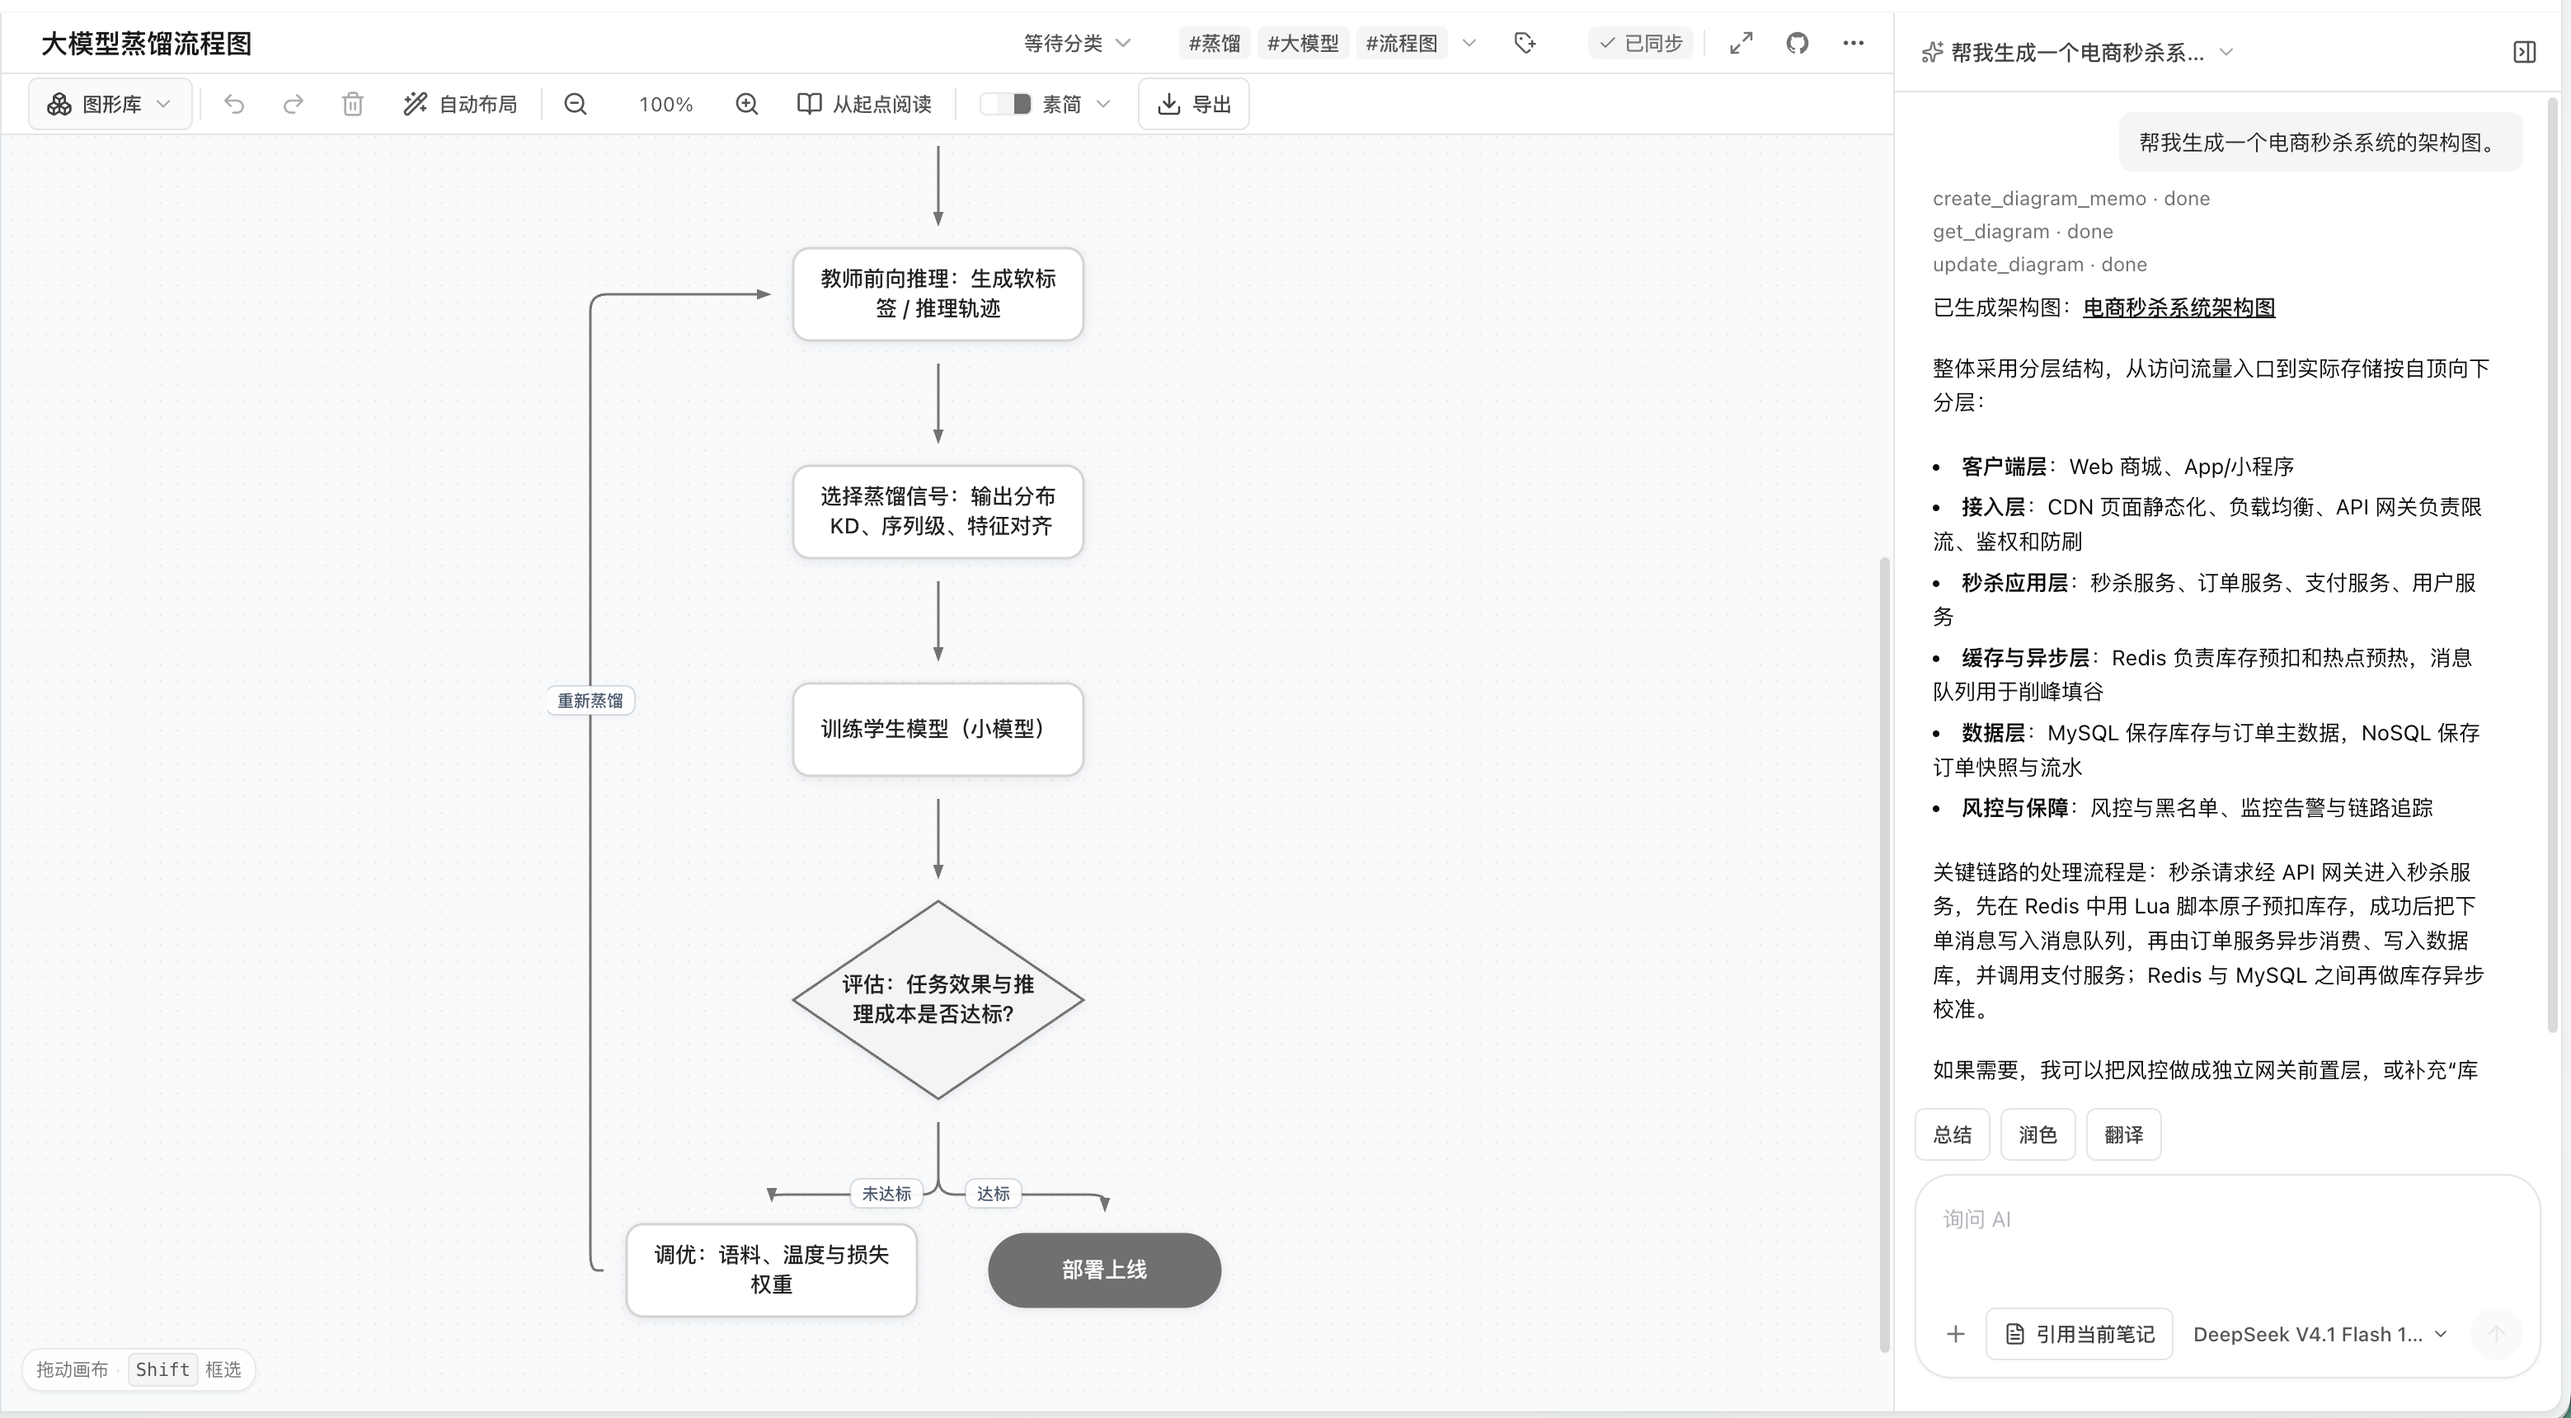
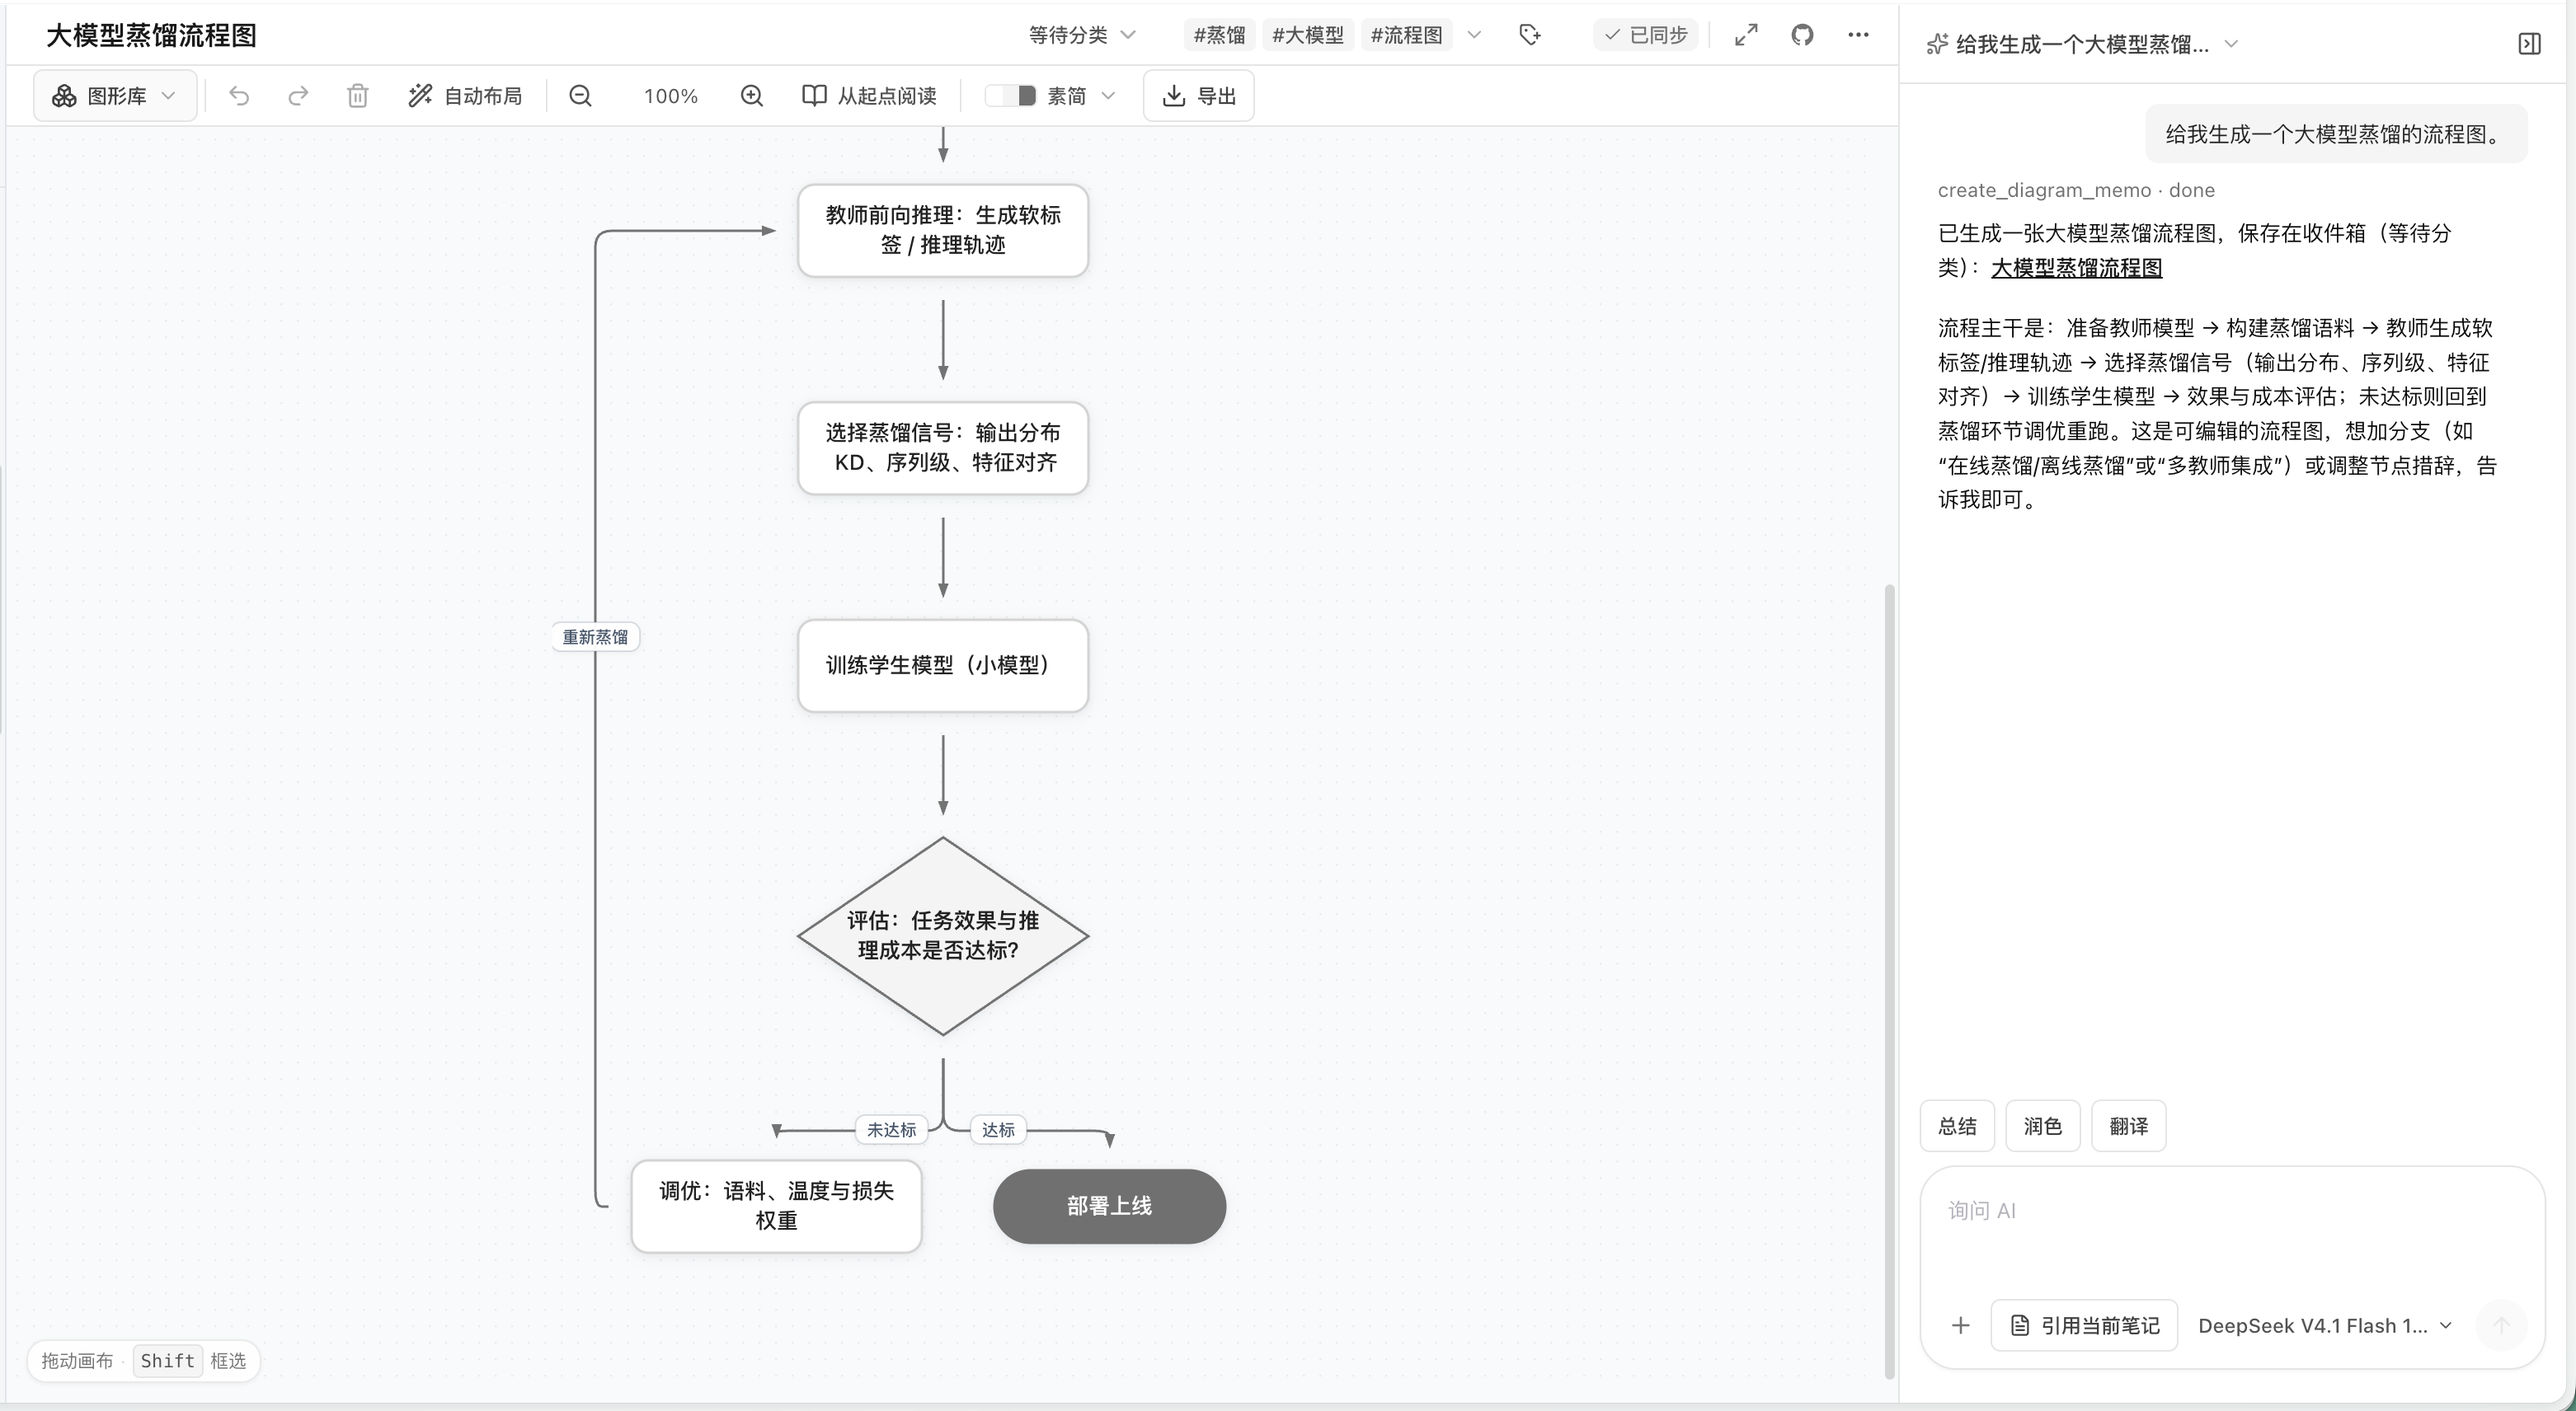
docs(best-practices): remove GitHub clipping showcase and update flowchart screenshot

diff --git a/docs/best-practices.md b/docs/best-practices.md
@@ -15,22 +15,21 @@ A practical guide to core workflows, key features, and real-world usage scenario
 - [6. X (Twitter) Post & Quote Clipping](#6-x-twitter-post--quote-clipping)
 - [7. Zhihu Answer & Column Article Clipping](#7-zhihu-answer--column-article-clipping)
 - [8. Reddit Discussion Post Clipping](#8-reddit-discussion-post-clipping)
-- [9. GitHub Repository Metadata Clipping](#9-github-repository-metadata-clipping)
 
 ### AI-Powered Structuring & Multi-Dimensional Data
-- [10. AI Conversational Generation of Mind Maps, Flowcharts & Architecture Diagrams](#10-ai-conversational-generation-of-mind-maps-flowcharts--architecture-diagrams)
-- [11. AI Generation of Structured Infographics (Timelines, Matrices & Quadrants)](#11-ai-generation-of-structured-infographics-timelines-matrices--quadrants)
-- [12. AI Conversational Database Table Generation](#12-ai-conversational-database-table-generation)
-- [13. Public Online Form Collection from Database Tables](#13-public-online-form-collection-from-database-tables)
-- [14. Connecting Local Agents via ACP for Note Interaction](#14-connecting-local-agents-via-acp-for-note-interaction)
+- [9. AI Conversational Generation of Mind Maps, Flowcharts & Architecture Diagrams](#9-ai-conversational-generation-of-mind-maps-flowcharts--architecture-diagrams)
+- [10. AI Generation of Structured Infographics (Timelines, Matrices & Quadrants)](#10-ai-generation-of-structured-infographics-timelines-matrices--quadrants)
+- [11. AI Conversational Database Table Generation](#11-ai-conversational-database-table-generation)
+- [12. Public Online Form Collection from Database Tables](#12-public-online-form-collection-from-database-tables)
+- [13. Connecting Local Agents via ACP for Note Interaction](#13-connecting-local-agents-via-acp-for-note-interaction)
 
 ### Visual Styling & Omnichannel Publishing
-- [15. Note Export to Long Image & Code Cards](#15-note-export-to-long-image--code-cards)
-- [16. Social Media Poster & Cover Design from Notes](#16-social-media-poster--cover-design-from-notes)
-- [17. Copying Notes to WeChat Official Account & Blogs](#17-copying-notes-to-wechat-official-account--blogs)
+- [14. Note Export to Long Image & Code Cards](#14-note-export-to-long-image--code-cards)
+- [15. Social Media Poster & Cover Design from Notes](#15-social-media-poster--cover-design-from-notes)
+- [16. Copying Notes to WeChat Official Account & Blogs](#16-copying-notes-to-wechat-official-account--blogs)
 
 ### Open Ecosystem & Extensibility
-- [18. Open Plugin API & Custom Plugin Development](#18-open-plugin-api--custom-plugin-development)
+- [17. Open Plugin API & Custom Plugin Development](#17-open-plugin-api--custom-plugin-development)
 
 ---
 
@@ -152,25 +151,9 @@ Right-click on the post title or body and select **"Save Selection to EdgeEver"*
 
 ---
 
-### 9. GitHub Repository Metadata Clipping
-
-Right-click anywhere on the GitHub repository page and select **"Save Repository Info to EdgeEver"**.
-
-- Extracts repository name (`Owner/Repo`), description, homepage, language, license, and topic tags into a structured technical card.
-
-| 1. Right-Click Save Repo Info |
-| :---: |
-| ![Right-click save GitHub repo info to EdgeEver](assets/best-practices/github-clip-menu.png) |
-
-| 2. Structured Repository Card |
-| :---: |
-| ![GitHub repo clipped into EdgeEver note card](assets/best-practices/github-clipped-note.png) |
-
----
-
 ## AI-Powered Structuring & Multi-Dimensional Data
 
-### 10. AI Conversational Generation of Mind Maps, Flowcharts & Architecture Diagrams
+### 9. AI Conversational Generation of Mind Maps, Flowcharts & Architecture Diagrams
 
 Prompt the AI Co-pilot (or connected local Agent) with natural language (e.g., "Generate a mind map / flowchart / architecture diagram about LLMs") to create editable diagrams directly in notes.
 
@@ -190,7 +173,7 @@ Prompt the AI Co-pilot (or connected local Agent) with natural language (e.g., "
 
 ---
 
-### 11. AI Generation of Structured Infographics (Timelines, Matrices & Quadrants)
+### 10. AI Generation of Structured Infographics (Timelines, Matrices & Quadrants)
 
 Use built-in infographic templates (timelines, comparison matrices, quadrants, and hierarchy charts) by prompting the AI Co-pilot with your topic.
 
@@ -207,7 +190,7 @@ Use built-in infographic templates (timelines, comparison matrices, quadrants, a
 
 ---
 
-### 12. AI Conversational Database Table Generation
+### 11. AI Conversational Database Table Generation
 
 Send a prompt to the AI Co-pilot (e.g., "Create a database table for social media content planning" or "Generate an employee onboarding tracker") to construct complete data tables.
 
@@ -224,7 +207,7 @@ Send a prompt to the AI Co-pilot (e.g., "Create a database table for social medi
 
 ---
 
-### 13. Public Online Form Collection from Database Tables
+### 12. Public Online Form Collection from Database Tables
 
 Click **"Form Collection"** at the top of any database table to generate a public online data entry form.
 
@@ -237,7 +220,7 @@ Click **"Form Collection"** at the top of any database table to generate a publi
 
 ---
 
-### 14. Connecting Local Agents via ACP for Note Interaction
+### 13. Connecting Local Agents via ACP for Note Interaction
 
 EdgeEver natively supports **ACP (Agent Client Protocol)**, allowing desktop clients to connect with local AI agent environments (such as Codex, Claude Code, DeepSeek Harness, Antigravity, etc.).
 
@@ -252,7 +235,7 @@ EdgeEver natively supports **ACP (Agent Client Protocol)**, allowing desktop cli
 
 ## Visual Styling & Omnichannel Publishing
 
-### 15. Note Export to Long Image & Code Cards
+### 14. Note Export to Long Image & Code Cards
 
 Use the "Share as Image" feature to render notes into high-resolution long images or cards.
 
@@ -265,7 +248,7 @@ Use the "Share as Image" feature to render notes into high-resolution long image
 
 ---
 
-### 16. Social Media Poster & Cover Design from Notes
+### 15. Social Media Poster & Cover Design from Notes
 
 Click **"Create Poster"** in any note's action menu (or via "New → Poster") to load key takeaways and titles into the Poster Design Studio.
 
@@ -278,7 +261,7 @@ Click **"Create Poster"** in any note's action menu (or via "New → Poster") to
 
 ---
 
-### 17. Copying Notes to WeChat Official Account & Blogs
+### 16. Copying Notes to WeChat Official Account & Blogs
 
 Select **"Copy to Official Account / Blog"** (复制到公众号 / 博客) from the note menu to convert notes into rich text with inline CSS.
 
@@ -296,7 +279,7 @@ Select **"Copy to Official Account / Blog"** (复制到公众号 / 博客) from 
 
 ## Open Ecosystem & Extensibility
 
-### 18. Open Plugin API & Custom Plugin Development
+### 17. Open Plugin API & Custom Plugin Development
 
 EdgeEver features an extension manager supporting one-click installation via GitHub repository URLs or Manifest links, with cross-device workspace synchronization between Web and Desktop.
 

diff --git a/README.pl-PL.md b/README.pl-PL.md
@@ -79,7 +79,7 @@ Publiczne demo resetuje się codziennie o 3:00 czasu chińskiego (UTC+8) i przyw
 <a id="features"></a>
 ## Macierz funkcji i zastosowań
 
-Wszechstronny obszar roboczy łączący zbieranie inspiracji, głębokie tworzenie i gromadzenie wiedzy:
+Wszechstronny obszar roboczy łączący zbieranie inspiracji, głębokie tworzenie i gromadzenie wiedzy (👉 **[Zobacz wszystkie 17 scenariuszy ze zrzutami ekranu](docs/best-practices.md)**):
 
 | Moduł | Funkcje podstawowe | Funkcje zaawansowane |
 | :--- | :--- | :--- |
@@ -89,8 +89,6 @@ Wszechstronny obszar roboczy łączący zbieranie inspiracji, głębokie tworzen
 | **Dane i wizualizacje** | • Natywna edycja tabel i renderowanie tabel Markdown<br>• Natywne diagramy Mermaid (schematy blokowe, sekwencje, architektura) | • **Wielowymiarowe tabele AI**: Tworzenie tabel biznesowych z promptu (z tagami, datami i polami wyboru)<br>• **Publiczne formularze zbierania danych**: Udostępnianie formularzy bez logowania i zapis odpowiedzi w czasie rzeczywistym<br>• **Generowanie infografik i map myśli przez AI**: Osi czasu, porównania, macierze i mapy myśli |
 | **AI i ekosystem** | • Asystent AI w panelu bocznym do streszczeń, korekty, tłumaczeń i redakcji<br>• Własne klucze API (BYOK): zgodność z OpenAI, Claude, Gemini i serwerami proxy | • **Protokoły MCP i ACP**: Wbudowany MCP do odczytu/zapisu przez agentów zewnętrznych; ACP w aplikacji desktopowej do współpracy z lokalnymi agentami<br>• **Inteligentne podsumowania RSS AI**: Agregacja źródeł, filtrowanie szumu i generowanie zwięzłych podsumowań<br>• API tworzenia wtyczek do rozbudowy funkcji |
 | **Synchronizacja i fundament** | • Natychmiastowa synchronizacja bez opóźnień na komputerach, telefonach i w sieci bez limitu urządzeń<br>• Oficjalne aplikacje na Web, macOS, Windows, Linux, iOS i Android<br>• Architektura offline-first i kolejka synchronizacji: płynne pisanie bez sieci, automatyczna synchronizacja po połączeniu<br>• Standardowa baza SQLite, bezstratny eksport/import archiwów ZIP i Markdown | • **Zero kosztów serwera na zawsze**: 100% działania w darmowym planie Cloudflare (~150 tys. notatek i ~50 tys. obrazów)<br>• **Elastyczny hosting Docker**: Wdrożenie na VPS, NAS lub domowym serwerze dla milionów notatek z natychmiastową synchronizacją<br>• Ochrona serwera przed atakami brute-force i bezpieczna izolacja |
-
-👉 Wszystkie 18 scenariuszy ze zrzutami ekranu opisuje [pełny przewodnik po funkcjach i zastosowaniach](docs/best-practices.md).
 
 ## Wdrożenie
 

diff --git a/README.md b/README.md
@@ -79,7 +79,7 @@ The public demo resets every day at 3:00 AM (China Standard Time) and restores s
 <a id="features"></a>
 ## Feature Matrix & Capabilities
 
-An all-in-one workspace connecting inspiration capture, deep creation, and knowledge compounding:
+An all-in-one workspace connecting inspiration capture, deep creation, and knowledge compounding (👉 **[Explore 17 step-by-step showcases with screenshots](docs/best-practices.md)**):
 
 | Module | Core Features | Advanced Features |
 | :--- | :--- | :--- |
@@ -89,8 +89,6 @@ An all-in-one workspace connecting inspiration capture, deep creation, and knowl
 | **Data & Visuals** | • Native table editing & Markdown table rendering<br>• Native Mermaid diagrams (flowcharts, sequence diagrams, architecture) | • **AI Multi-Dimensional Tables**: Prompt-to-database with automatic field typing (tags, dates, selects)<br>• **Public Online Collection Forms**: One-click shareable forms without login, syncing responses into tables in real time<br>• **AI Diagram & Infographic Generation**: In-place creation of timelines, comparison charts, quadrant matrices & mind maps |
 | **AI & Ecosystem** | • Companion sidebar AI assistant for summaries, proofreading & translations<br>• BYOK (Bring Your Own Key): compatible with OpenAI, Claude, Gemini & custom endpoints | • **Native Agent Protocols (MCP & ACP)**: Built-in MCP for external agent read/write; ACP in desktop app to drive local coding agents directly<br>• **AI RSS Daily Digest**: Automated feed aggregation, AI noise filtering, and structured digest generation<br>• Extensible Plugin Development API |
 | **Multi-Device Sync & Foundation** | • Seamless, low-latency sync across desktop, mobile, and web with zero device limits<br>• Official client support across Web, macOS, Windows, Linux, iOS, and Android<br>• Offline-first with auto-sync queue: write smoothly offline, automatically resume and sync when reconnected<br>• Standard SQLite database, lossless ZIP backup & Markdown export/import | • **Zero Server Cost for Life**: 100% runnable on Cloudflare Free tier (~150k short notes & ~50k images)<br>• **Flexible Docker Self-Hosting**: One-click deployment for VPS, NAS, or home server with millions of notes & instant sync<br>• Server-side brute-force protection and tenant security |
-
-👉 Explore all 18 step-by-step showcases with screenshots: **[Complete Showcase & Workflows Guide](docs/best-practices.md)**
 
 ## Deployment
 
